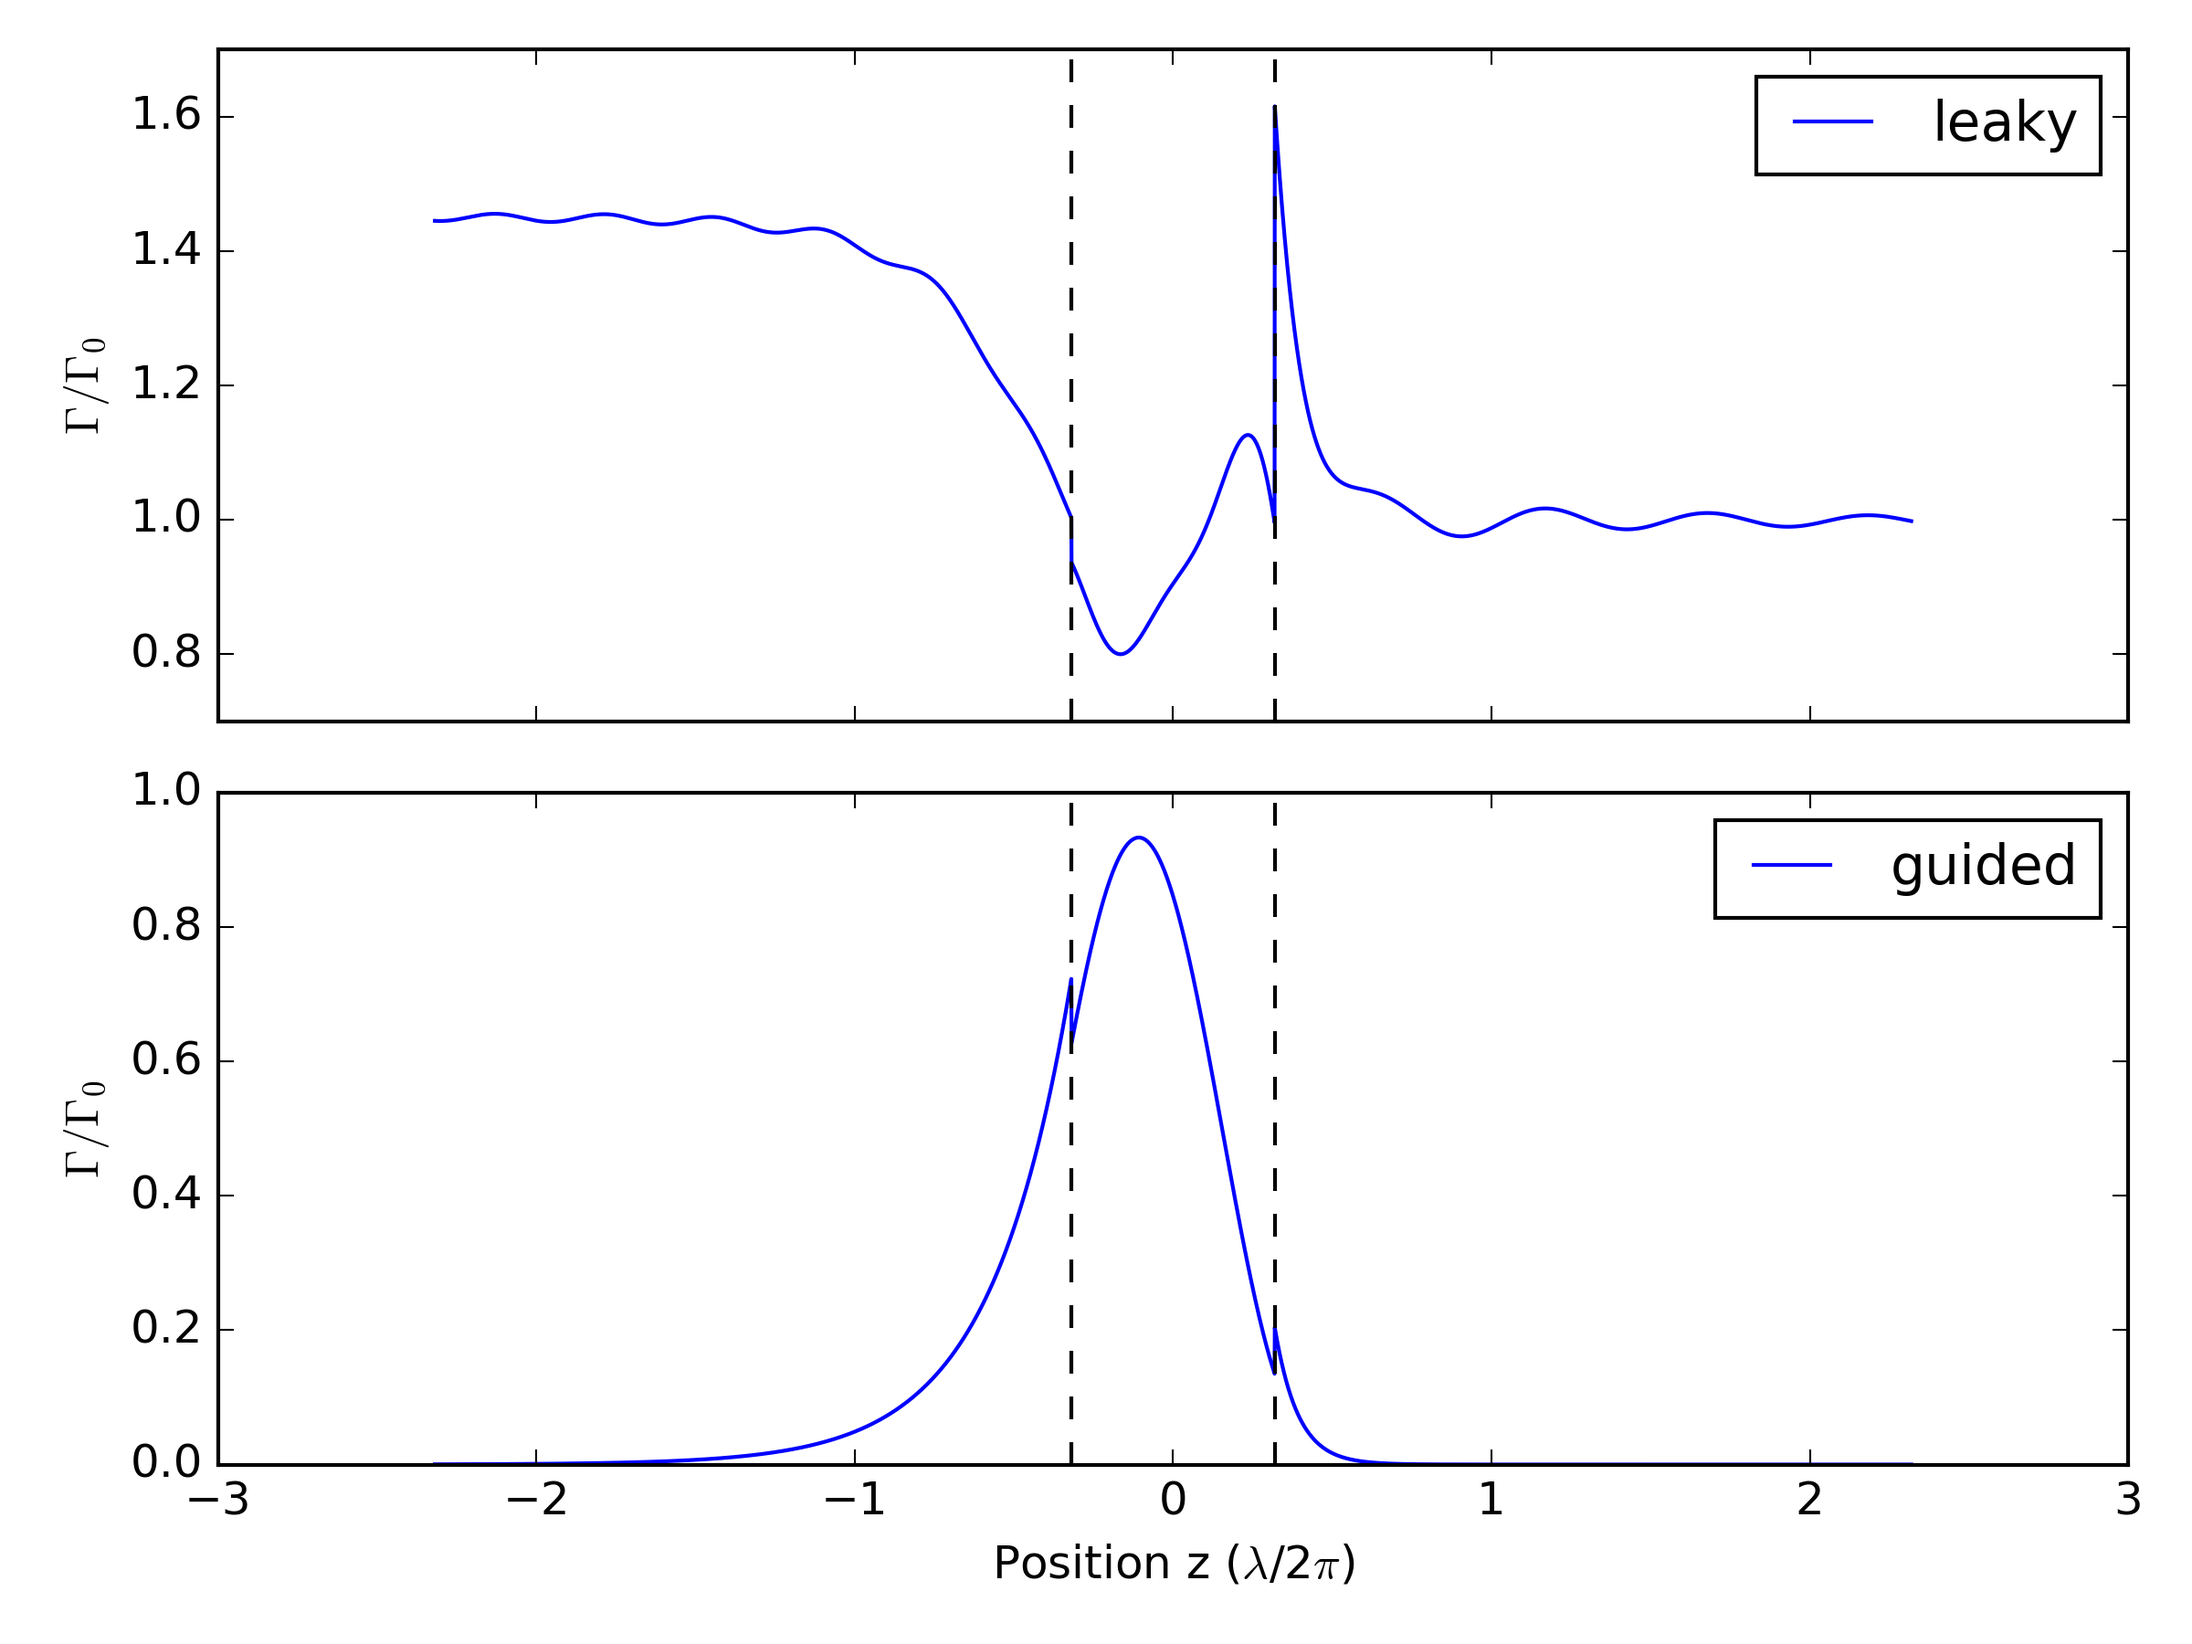
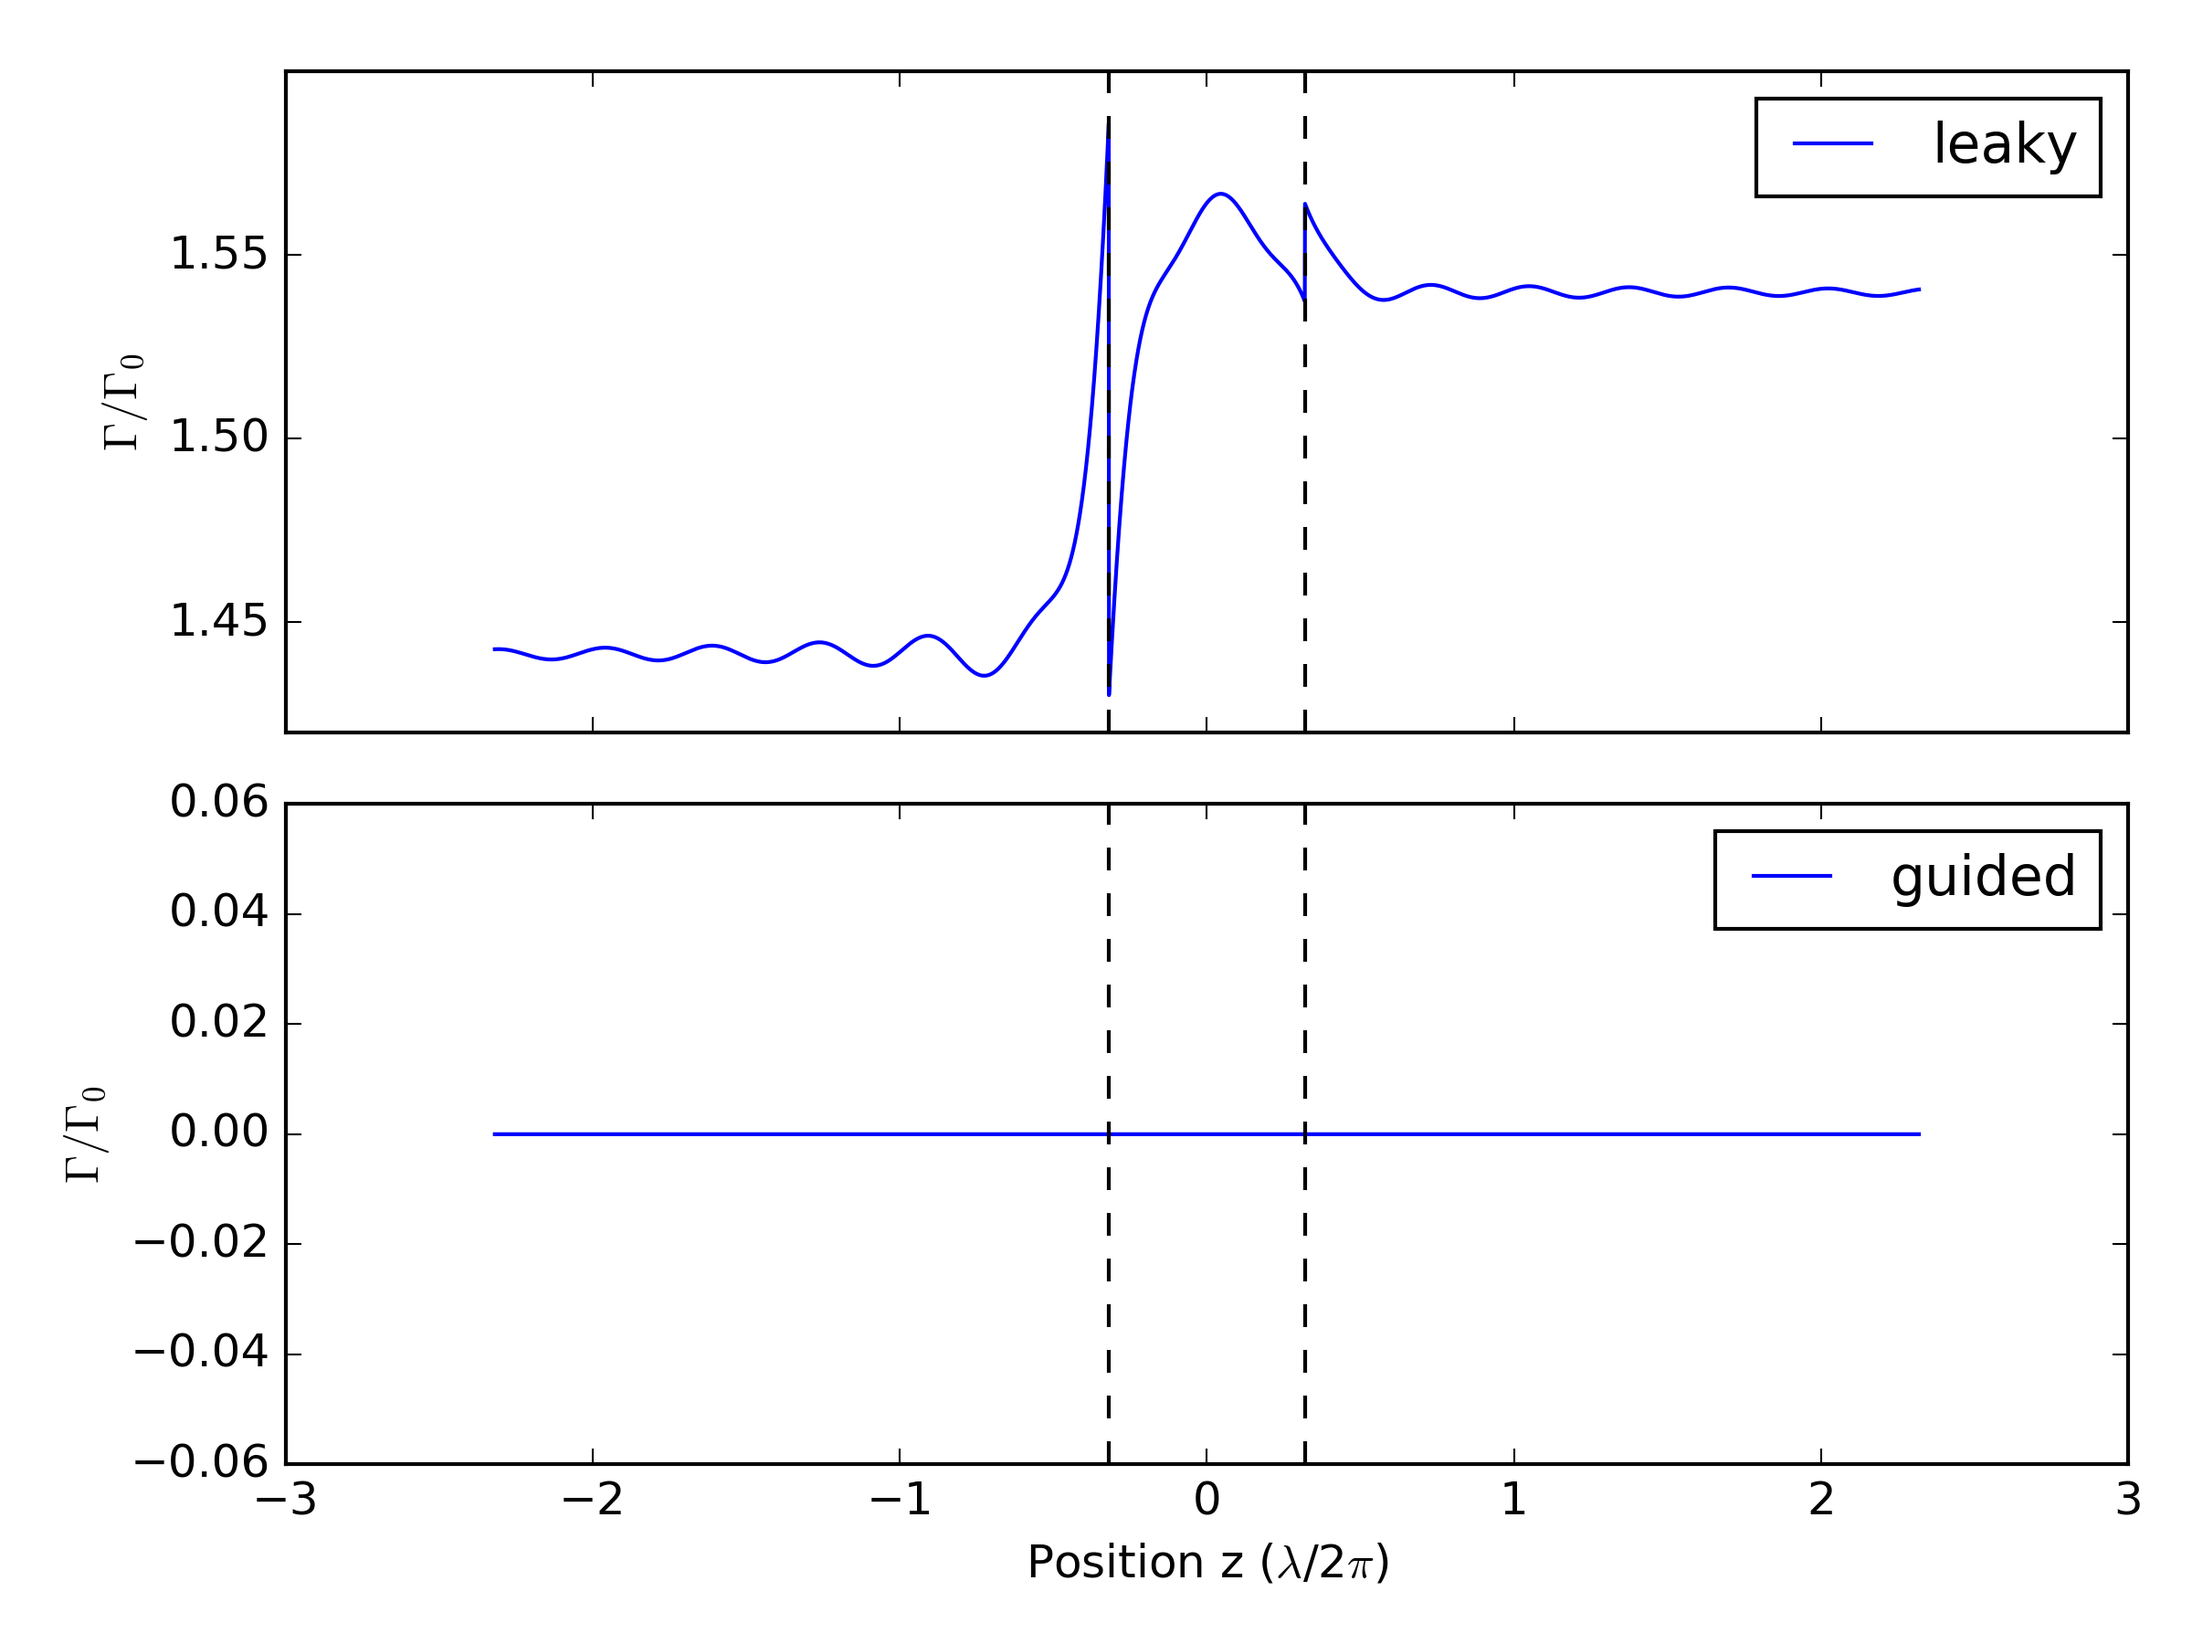
end of week

diff --git a/lifetmm/Examples/erbium_film.py b/lifetmm/Examples/erbium_film.py
@@ -8,16 +8,16 @@ import numpy as np
 from lifetmm.Methods.SpontaneousEmissionRate import LifetimeTmm
 
 
-def t2():
+def t2(medium):
     """
-    T2 EDTS layer next to air.
+    T2 EDTS layer next to medium.
     """
     # Create structure
     st = LifetimeTmm()
     st.set_vacuum_wavelength(lam0)
-    st.add_layer(2 * lam0, sio2)
+    st.add_layer(d_clad * lam0, sio2)
     st.add_layer(d_etds, edts)
-    st.add_layer(2 * lam0, air)
+    st.add_layer(d_clad * lam0, medium)
     st.info()
 
     # Calculate spontaneous emission for leaky and guided modes
@@ -201,7 +201,7 @@ def t2_guided():
 def t2_spe_vs_n():
     # n_list = np.append(np.linspace(1, 1.45, num=25), np.linspace(1.45, 1.55, num=50))
     # n_list = np.append(n_list, np.linspace(1.55, 2, num=25))
-    n_list = [air, water, 1.3675, 1.47]
+    n_list = [air, water, glycerol]
     spe_list = []
     leaky_list = []
     guided_list = []
@@ -217,7 +217,7 @@ def t2_spe_vs_n():
         st.info()
 
         # Calculate spontaneous emission of layer 0 (1st)
-        result = st.calc_spe_structure(th_pow=15)
+        result = st.calc_spe_structure(th_pow=12)
         leaky = result['leaky']['avg']
         try:
             guided = result['guided']['avg']
@@ -254,8 +254,8 @@ def t2_spe_vs_n():
     plt.tight_layout()
 
     if SAVE:
-        plt.savefig('../Images/t2_vs_n.png', dpi=300)
-        np.savez('../Data/t2_vs_n', n=n_list, spe=spe_list, guided=guided_list, leaky=leaky_list)
+        plt.savefig('../Images/spe_vs_n.png', dpi=300)
+        np.savez('../Data/spe_vs_n', n=n_list, spe=spe_list, guided=guided_list, leaky=leaky_list)
     plt.show()
 
 
@@ -264,35 +264,42 @@ def load_data():
     print(data._files)
 
 
-def purcell_factor():
+def purcell_factor(n1, n2):
     """
     Two structures.
     Leaky and guided separate plots.
     Evaluate purcell factor for randomly orientated dipole averaged over film thickness.
     """
+
     # Structure 1
     st1 = LifetimeTmm()
     st1.set_vacuum_wavelength(lam0)
-    st1.add_layer(1.5 * lam0, sio2)
+    st1.add_layer(d_clad * lam0, sio2)
     st1.add_layer(d_etds, edts)
-    st1.add_layer(1.5 * lam0, air)
+    st1.add_layer(d_clad * lam0, n[n1])
     st1.info()
 
     # Structure 2
     st2 = LifetimeTmm()
     st2.set_vacuum_wavelength(lam0)
-    st2.add_layer(1.5 * lam0, sio2)
+    st2.add_layer(d_clad * lam0, sio2)
     st2.add_layer(d_etds, edts)
-    st2.add_layer(1.5 * lam0, water)
+    st2.add_layer(d_clad * lam0, n[n2])
     st2.info()
 
     # ------- Calculations -------
     # Calculate spontaneous emission for leaky and guided modes
     result1 = st1.calc_spe_structure(th_pow=11)
-    spe1 = result1['leaky']['avg'] + result1['guided']['avg']
+    try:
+        spe1 = result1['leaky']['avg'] + result1['guided']['avg']
+    except KeyError:
+        spe1 = result1['leaky']['avg']
 
     result2 = st2.calc_spe_structure(th_pow=11)
-    spe2 = result2['leaky']['avg'] + result2['guided']['avg']
+    try:
+        spe2 = result2['leaky']['avg'] + result2['guided']['avg']
+    except KeyError:
+        spe2 = result2['leaky']['avg']
 
     z = result1['z']
     z = st1.calc_z_to_lambda(z)
@@ -303,40 +310,46 @@ def purcell_factor():
 
     # ------- Plots -------
     fig, (ax1, ax2) = plt.subplots(2, 1, sharex='col', sharey='none')
-    ax1.plot(z, result1['leaky']['avg'], label='Air')
-    ax1.plot(z, result2['leaky']['avg'], ls='--', label='Water')
+    ax1.plot(z, result1['leaky']['avg'], label=n1)
+    ax1.plot(z, result2['leaky']['avg'], ls='--', label=n2)
 
-    ax2.plot(z, result1['guided']['avg'], label='Air')
-    ax2.plot(z, result2['guided']['avg'], ls='--', label='Water')
+    try:
+        ax2.plot(z, result1['guided']['avg'], label=n1)
+    except KeyError:
+        pass
+
+    try:
+        ax2.plot(z, result2['guided']['avg'], ls='--', label=n2)
+    except KeyError:
+        pass
 
     # Plot internal layer boundaries
     for i in boundaries:
-        ax1.axvline(i, color='k', lw=1, ls='--')
-        ax2.axvline(i, color='k', lw=1, ls='--')
-
+        ax1.axvline(i, color='k', ls='--')
+        ax2.axvline(i, color='k', ls='--')
+    # ax1.set_ylim(0.7, 2)
     # Labels
     ax1.set_ylabel('$\Gamma / \Gamma_0$')
     ax2.set_ylabel('$\Gamma / \Gamma_0$')
     ax2.set_xlabel('Position z ($\lambda$)')
-    ax1.legend(title='Leaky', fontsize='small')
-    ax2.legend(title='Guided', fontsize='small')
+    ax1.legend(title='Leaky')
+    ax2.legend(title='Guided')
 
     if SAVE:
         plt.savefig('../Images/T2_purcell_factor')
 
     fig, ax1 = plt.subplots()
-    ax1.plot(z, spe1, label='Air')
-    ax1.plot(z, spe2, ls='--', label='Water')
+    ax1.plot(z, spe1, label=n1)
+    ax1.plot(z, spe2, ls='--', label=n2)
 
     # Plot internal layer boundaries
     for i in boundaries:
-        ax1.axvline(i, color='k', lw=1, ls='--')
+        ax1.axvline(i, color='k', ls='--')
 
     # Labels
     ax1.set_ylabel('$\Gamma / \Gamma_0$')
     ax1.set_xlabel('Position z ($\lambda$)')
-    ax1.legend(fontsize='small')
-
+    ax1.legend()
     if SAVE:
         plt.savefig('../Images/T2_purcell_factor_total')
     plt.show()
@@ -353,16 +366,28 @@ if __name__ == "__main__":
 
     # Film thickness
     d_etds = 980
+    d_clad = 1.5  # (in units of lam0)
 
     # Material refractive index at lam0
     sio2 = 1.442
     edts = 1.56
     air = 1
     water = 1.3183
+    glycerol = 1.46
+    diiodomethane = 1.71
 
-    # t2()
+    n = {'Air': 1,
+         'Water': 1.3183,
+         'SiO2': 1.442,
+         'Glycerol': 1.46,
+         'EDTS': 1.56,
+         'Cassia Oil': 1.6,
+         'Diiodomethane': 1.71
+         }
+
+    # t2(water)
     # t2_leaky()
     # t2_fig4()
     # t2_guided()
     # t2_spe_vs_n()
-    purcell_factor()
+    purcell_factor('Air', 'Water')

diff --git a/lifetmm/Methods/journalPlotting.py b/lifetmm/Methods/journalPlotting.py
@@ -3,11 +3,8 @@ import numpy as np
 
 
 def update():
-    # Journal plotting parameters
-    plt.style.use('https://raw.githubusercontent.com/mn14tm/Notebooks/master/journalThomas.mplstyle')
-
-    # http://blog.dmcdougall.co.uk/publication-ready-the-first-time-beautiful-reproducible-plots-with-matplotlib/
-    WIDTH = 246.0  # the number latex spits out when typing: \the\linewidth
+    # Set figure size
+    WIDTH = 246.0  # the number (in pt) latex spits out when typing: \the\linewidth
     FACTOR = 0.9  # the fraction of the width you'd like the figure to occupy
     fig_width_pt = WIDTH * FACTOR
 
@@ -20,6 +17,11 @@ def update():
 
     # Update rcParams for figure size
     params = {
+        'font.size': 9.0,
+        'text.usetex': True,
+        'savefig.dpi': 1200,
+        'savefig.format': 'pdf',
+        'savefig.bbox': 'tight',
         'figure.figsize': fig_dims,
     }
     plt.rcParams.update(params)
